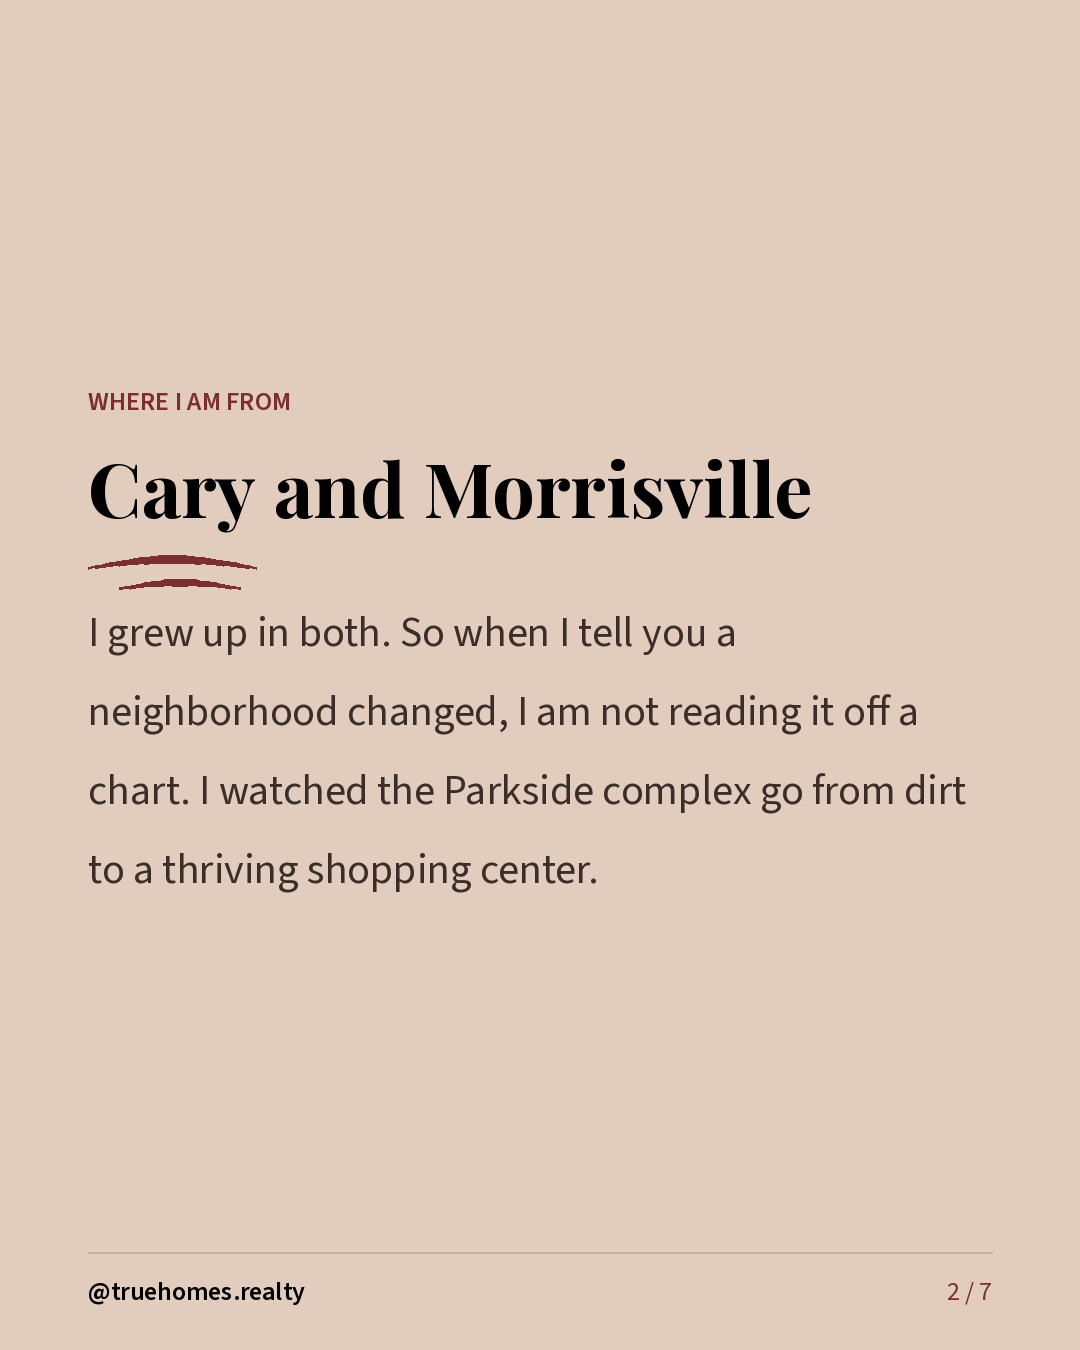
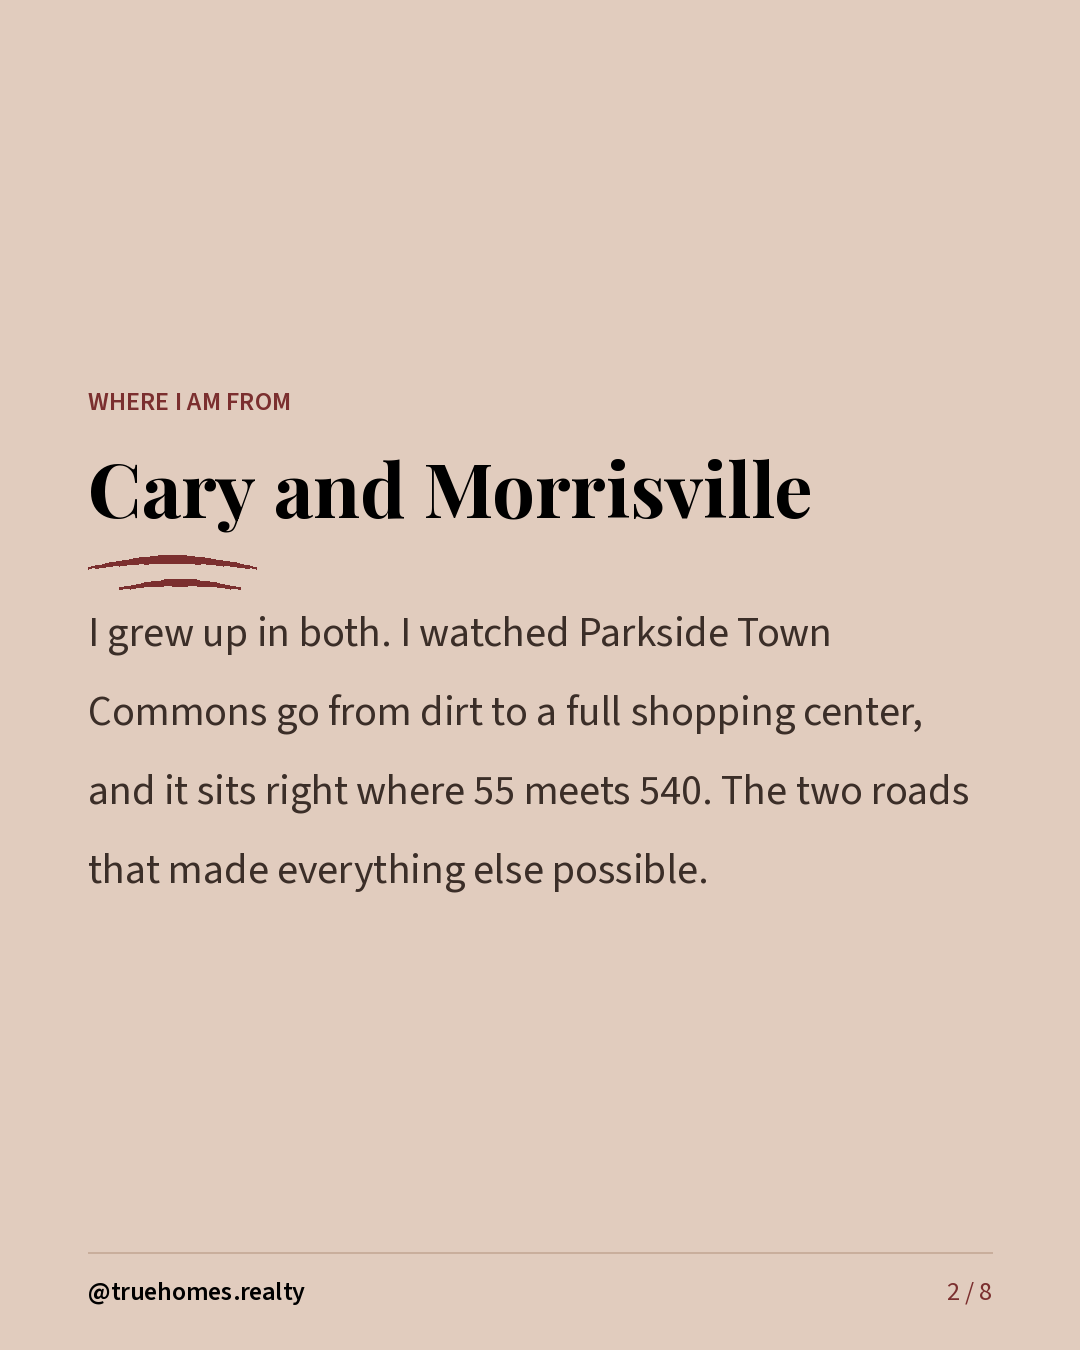
Add index and split layouts, name real places, reframe the sign photo
The bulleted body slide was the templated-looking one, so two layouts join it.
`index` is a directory of up to five named places with hairline separators —
denser, editorial, and it forces specificity instead of four airy bullets.
`split` puts a photo across the top with copy in a brick panel overlapping its
lower edge. The skill now says to vary types and never run three body slides
together.

Content moves from adjectives to named places, researched and verified:
Parkside Town Commons at I-540 and NC 55 (the exact intersection of both roads
in her story, and the complex she watched go up from dirt), Grand Asia and
Patel Brothers and H Mart, White Oak Creek Greenway running 7.5 miles from
Bond Park to the American Tobacco Trail, and Amberly, Carpenter Village and
Cary Park with greenway access built in. Adds a Complete 540 stat slide.

Photo slides gain a `frame` control (zoom plus x/y pan) so something can be
composed out of shot rather than blurred — a blur reads as censorship, a crop
reads as a choice. The neighbouring agent's rider is now out of frame at
x=0.36 while her own sign still reads. Blur is reserved for genuine privacy:
the family's house number and a bystander in the doorway.

Records in the knowledge base that West Cary is both her luxury market and a
greenway-connected walkable one — the bridge between her two content angles.

Changed region(s): [[0.0917, 0.4356, 0.8861, 0.6533]]

diff --git a/render/carousel.py b/render/carousel.py
@@ -73,6 +73,10 @@ def load_fonts():
         return f
 
     return {
+        "entry":       pf(50, "Bold"),
+        "entry_sm":    pf(42, "Bold"),
+        "detail":      ss(32, "Regular"),
+        "tag":         ss(23, "SemiBold"),
         "stat":        pf(210, "Bold"),
         "stat_sm":     pf(150, "Bold"),
         "over":        pf(92, "Bold"),
@@ -238,11 +242,15 @@ def corner_wedge(img, C, size=250):
     return Image.alpha_composite(img.convert("RGBA"), layer).convert("RGB")
 
 
-def cover_fit(img, w, h):
-    ratio = max(w / img.width, h / img.height)
+def cover_fit(img, w, h, zoom=1.0, fx=0.5, fy=0.5):
+    """
+    Scale-and-crop to fill. `zoom` tightens the frame, `fx`/`fy` pan it — so a
+    shot can be composed to leave something out of frame rather than blurred.
+    """
+    ratio = max(w / img.width, h / img.height) * max(1.0, zoom)
     img = img.resize((int(img.width * ratio) + 1, int(img.height * ratio) + 1), Image.LANCZOS)
-    left = (img.width - w) // 2
-    top = (img.height - h) // 2
+    left = int((img.width - w) * min(max(fx, 0.0), 1.0))
+    top = int((img.height - h) * min(max(fy, 0.0), 1.0))
     return img.crop((left, top, left + w, top + h))
 
 
@@ -491,7 +499,10 @@ def render_photo(cfg, slide, F, C, brand, dims, carousel_dir, index, total):
     if not src:
         return render_body(cfg, slide, F, C, brand, dims, carousel_dir, index, total)
 
-    img = scrim(cover_fit(open_photo(src), W, H), strength=0.9, start=0.28)
+    fr = slide.get("frame", {})
+    img = scrim(cover_fit(open_photo(src), W, H, fr.get("zoom", 1.0),
+                          fr.get("x", 0.5), fr.get("y", 0.5)),
+                strength=0.9, start=0.28)
     draw = ImageDraw.Draw(img)
     content_w = W - MARGIN * 2
 
@@ -570,8 +581,100 @@ def render_stat(cfg, slide, F, C, brand, dims, carousel_dir, index, total):
     return img
 
 
+def render_index(cfg, slide, F, C, brand, dims, carousel_dir, index, total):
+    """
+    A directory of named places: name in display type, detail beneath, hairline
+    between. Dense and editorial — the antidote to a slide of four bullets.
+    """
+    W, H = dims
+    img = new_slide(W, H, C)
+    draw = ImageDraw.Draw(img)
+    content_w = W - MARGIN * 2
+    entries = slide["entries"]
+    brick, black = hex_to_rgb(C["brick"]), hex_to_rgb(C["black"])
+
+    y = MARGIN + 34
+    if slide.get("eyebrow"):
+        draw.text((MARGIN, y), slide["eyebrow"].upper(), font=F["eyebrow"], fill=brick)
+        y += 50
+    if slide.get("title"):
+        tf = F["title"] if draw.textlength(slide["title"], font=F["title"]) <= content_w else F["title_sm"]
+        draw.text((MARGIN, y), slide["title"], font=tf, fill=black)
+        y += line_height(tf, 1.02)
+        draw_swash(draw, MARGIN, y + 12, 172, brick, scale=0.8)
+        y += 60
+
+    # distribute the remaining height across the entries
+    bottom = H - FOOTER_H - 24
+    ef = F["entry"] if len(entries) <= 4 else F["entry_sm"]
+    blocks = []
+    for e in entries:
+        h = line_height(ef, 1.06)
+        if e.get("detail"):
+            h += measure(draw, e["detail"], F["detail"], content_w - 78, 1.26) + 8
+        blocks.append(h)
+    gap = max(20, min(44, (bottom - y - sum(blocks)) // max(1, len(entries))))
+
+    for i, (e, bh) in enumerate(zip(entries, blocks)):
+        if i:
+            draw.line([(MARGIN, y - gap // 2), (W - MARGIN, y - gap // 2)],
+                      fill=hex_to_rgb("#C9AE9C"), width=2)
+        # brick index marker, small and square — not a numbered list
+        draw.rectangle([(MARGIN, y + 16), (MARGIN + 16, y + 32)], fill=brick)
+        tx = MARGIN + 46
+        draw.text((tx, y), e["name"], font=ef, fill=black)
+        yy = y + line_height(ef, 1.06)
+        if e.get("detail"):
+            lines = wrap_accented(draw, e["detail"], F["detail"], content_w - 78)
+            yy = draw_accented(draw, lines, (tx, yy + 4), F["detail"],
+                               hex_to_rgb("#5C4A40"), brick, factor=1.26)
+        y = yy + gap
+
+    draw_footer(img, draw, F, C, brand, W, H, index, total)
+    return img
+
+
+def render_split(cfg, slide, F, C, brand, dims, carousel_dir, index, total):
+    """Photo across the top, text in a brick panel that overlaps its lower edge."""
+    W, H = dims
+    img = new_slide(W, H, C)
+    src = resolve_image(slide.get("image"), carousel_dir)
+    band = int(H * 0.56)
+    if src:
+        img.paste(cover_fit(open_photo(src), W, band), (0, 0))
+    draw = ImageDraw.Draw(img)
+    content_w = W - MARGIN * 2 - 56
+
+    tf = F["title"]
+    tl = wrap_accented(draw, slide["title"], tf, content_w)
+    if len(tl) > 2:
+        tf = F["title_sm"]
+        tl = wrap_accented(draw, slide["title"], tf, content_w)
+    body_h = measure(draw, slide["text"], F["body"], content_w, 1.30) if slide.get("text") else 0
+    panel_h = 64 + len(tl) * line_height(tf, 1.06) + 24 + body_h + 56
+
+    px, py = MARGIN - 28, band - 74
+    draw.rectangle([(px, py), (W - px, py + panel_h)], fill=hex_to_rgb(C["brick"]))
+
+    y = py + 46
+    if slide.get("eyebrow"):
+        draw.text((px + 44, y - 4), slide["eyebrow"].upper(), font=F["eyebrow"],
+                  fill=hex_to_rgb("#E9C3B4"))
+        y += 46
+    y = draw_accented(draw, tl, (px + 44, y), tf,
+                      hex_to_rgb("#FFFFFF"), hex_to_rgb("#F0BCAC"), factor=1.06)
+    if slide.get("text"):
+        lines = wrap_accented(draw, slide["text"], F["body"], content_w)
+        draw_accented(draw, lines, (px + 44, y + 20), F["body"],
+                      hex_to_rgb("#EFD9CE"), hex_to_rgb("#F0BCAC"), factor=1.30)
+
+    draw_footer(img, draw, F, C, brand, W, H, index, total)
+    return img
+
+
 RENDERERS = {"hook": render_hook, "body": render_body, "cta": render_cta,
-             "photo": render_photo, "stat": render_stat}
+             "photo": render_photo, "stat": render_stat,
+             "index": render_index, "split": render_split}
 
 
 # --------------------------------------------------------------------------
@@ -592,6 +695,12 @@ def validate(cfg):
     for i, s in enumerate(slides, 1):
         if s.get("type") not in RENDERERS:
             errs.append(f"slide {i}: unknown type {s.get('type')!r}")
+        if s.get("type") == "index" and not s.get("entries"):
+            errs.append(f"slide {i}: type 'index' needs an \"entries\" list")
+        if s.get("type") == "index" and len(s.get("entries", [])) > 5:
+            errs.append(f"slide {i}: {len(s['entries'])} entries, max 5")
+        if s.get("type") == "split" and not s.get("title"):
+            errs.append(f"slide {i}: type 'split' needs a title")
         if s.get("type") == "stat" and not s.get("stat"):
             errs.append(f"slide {i}: type 'stat' needs a \"stat\" value")
         if s.get("type") == "photo" and not s.get("image"):

diff --git a/.claude/skills/carousel/SKILL.md b/.claude/skills/carousel/SKILL.md
@@ -40,7 +40,13 @@ One config file in, branded PNGs out at both aspect ratios. The look lives in
       "text": "One idea.", "bullets": ["max four", "each one line"],
       "image": "listing-front.jpg" },
     { "type": "photo", "eyebrow": "Label", "text": "Type over the photo.",
-      "caption": "Optional supporting line.", "image": "cary-downtown.heic" },
+      "caption": "Optional supporting line.", "image": "cary-downtown.heic",
+      "frame": { "zoom": 1.0, "x": 0.36 } },
+    { "type": "index", "eyebrow": "Label", "title": "Named places",
+      "entries": [ { "name": "Parkside Town Commons",
+                     "detail": "What it is, in one line" } ] },
+    { "type": "split", "eyebrow": "Label", "title": "Headline",
+      "text": "Body copy in the brick panel.", "image": "street.jpg" },
     { "type": "stat", "eyebrow": "Label", "stat": "55",
       "title": "Short title", "text": "What the number means." },
     { "type": "cta", "text": "The ask.", "button_text": "Follow for more" }
@@ -53,7 +59,21 @@ One config file in, branded PNGs out at both aspect ratios. The look lives in
   Use it for real city photos. Falls back to `body` if the image is missing.
 - **`stat`** sets one number huge in brick with the corner wedge. Use it for a
   road number, a year, a distance — something concrete and checkable.
-- Vary the types. A carousel of nothing but `body` slides reads flat.
+- **`index`** is a directory: up to five named places, each with a one-line
+  detail, hairline-separated. **Reach for this instead of `bullets` whenever
+  the slide is a list of real places** — it is denser, more editorial, and it
+  forces specificity.
+- **`split`** puts a photo across the top with the copy in a brick panel
+  overlapping its lower edge. Good for one strong statement over one image.
+- **Vary the types.** Three `body` slides in a row is the single fastest way to
+  make a carousel look machine-made. Aim for no two adjacent slides sharing a
+  layout, and put a `photo`, `stat` or `index` between every pair of `body`
+  slides.
+- **`frame`** on a photo slide controls composition: `zoom` tightens, `x`/`y`
+  pan (0 = left/top, 1 = right/bottom). Use it to compose something **out of
+  frame** rather than blurring it — a blur reads as censorship, a crop reads as
+  a choice. Blur only genuine privacy items: house numbers, faces of people who
+  did not consent.
 - `*asterisks*` colour a phrase brick. One or two per slide, never more.
 - `image`: a filename in `workspace/<slug>/images/`, or `brand:<file>` for a
   shared asset in `brand/`. A missing image degrades to the blush ground.

diff --git a/knowledge/triangle-development.md b/knowledge/triangle-development.md
@@ -72,6 +72,30 @@ but not built* matters more than what is standing today.
   cited gap. `[V]`
 - **Cary median home price ≈ $580,000** as of early 2026, up modestly on
   2025. `[V]`
+
+**West Cary specifics — named, for content.** `[V]`
+
+- **Parkside Town Commons**, 7119 O'Kelly Chapel Road — sits at **I-540 and
+  NC 55**, the exact intersection of the two roads in her corridor story, and
+  the complex she watched go up from dirt. Target, Harris Teeter, Hobby Lobby,
+  Field & Stream, Golf Galaxy, Starbucks; Brixx, Hickory Tavern, Five Guys.
+- **International grocers.** Patel Brothers (802 E Chatham St, Cary), H Mart
+  (Cary, opened 2016), Grand Asia (Cary). Across Morrisville: Grand India Mart
+  (3516 Davis Dr), Suvidha Indo-Pak (3735 Davis Dr), RTP Sabzi Mandi (1004
+  Lower Shiloh Way), Sangam Mart (10300 Chapel Hill Rd). Roughly 36 international
+  grocers across western Wake.
+  **Name the businesses — never characterise who shops there.** The stores are
+  an amenity fact; the shoppers are not content.
+- **White Oak Creek Greenway** — about **7.5 miles**, connecting **Fred G. Bond
+  Metro Park** to the **American Tobacco Trail**. Panther Creek Greenway runs
+  from Carpenter Fire Station Road to Cary Park Lake; Park Village Greenway
+  links the Park Village Community Center into White Oak Creek.
+- **Neighborhoods with greenway access built in:** Amberly (connects via Panther
+  Creek and White Oak Creek), Carpenter Village, Cary Park (28-acre lake, two
+  miles of paved trail), plus Preston, Lochmere and MacGregor Downs.
+- **This is the bridge between her two angles.** West Cary is simultaneously her
+  luxury market and a genuinely walkable, greenway-connected one. Content that
+  ties the two together is hers alone.
 - **Cary Towne Center — one site that stalled.** Not a mark against Cary, which kept growing straight through it. Epic Games bought the mall to
   build a headquarters targeted for 2024. The rezoning application was withdrawn
   for inactivity in December 2024, the site still sat vacant in April 2026, and
